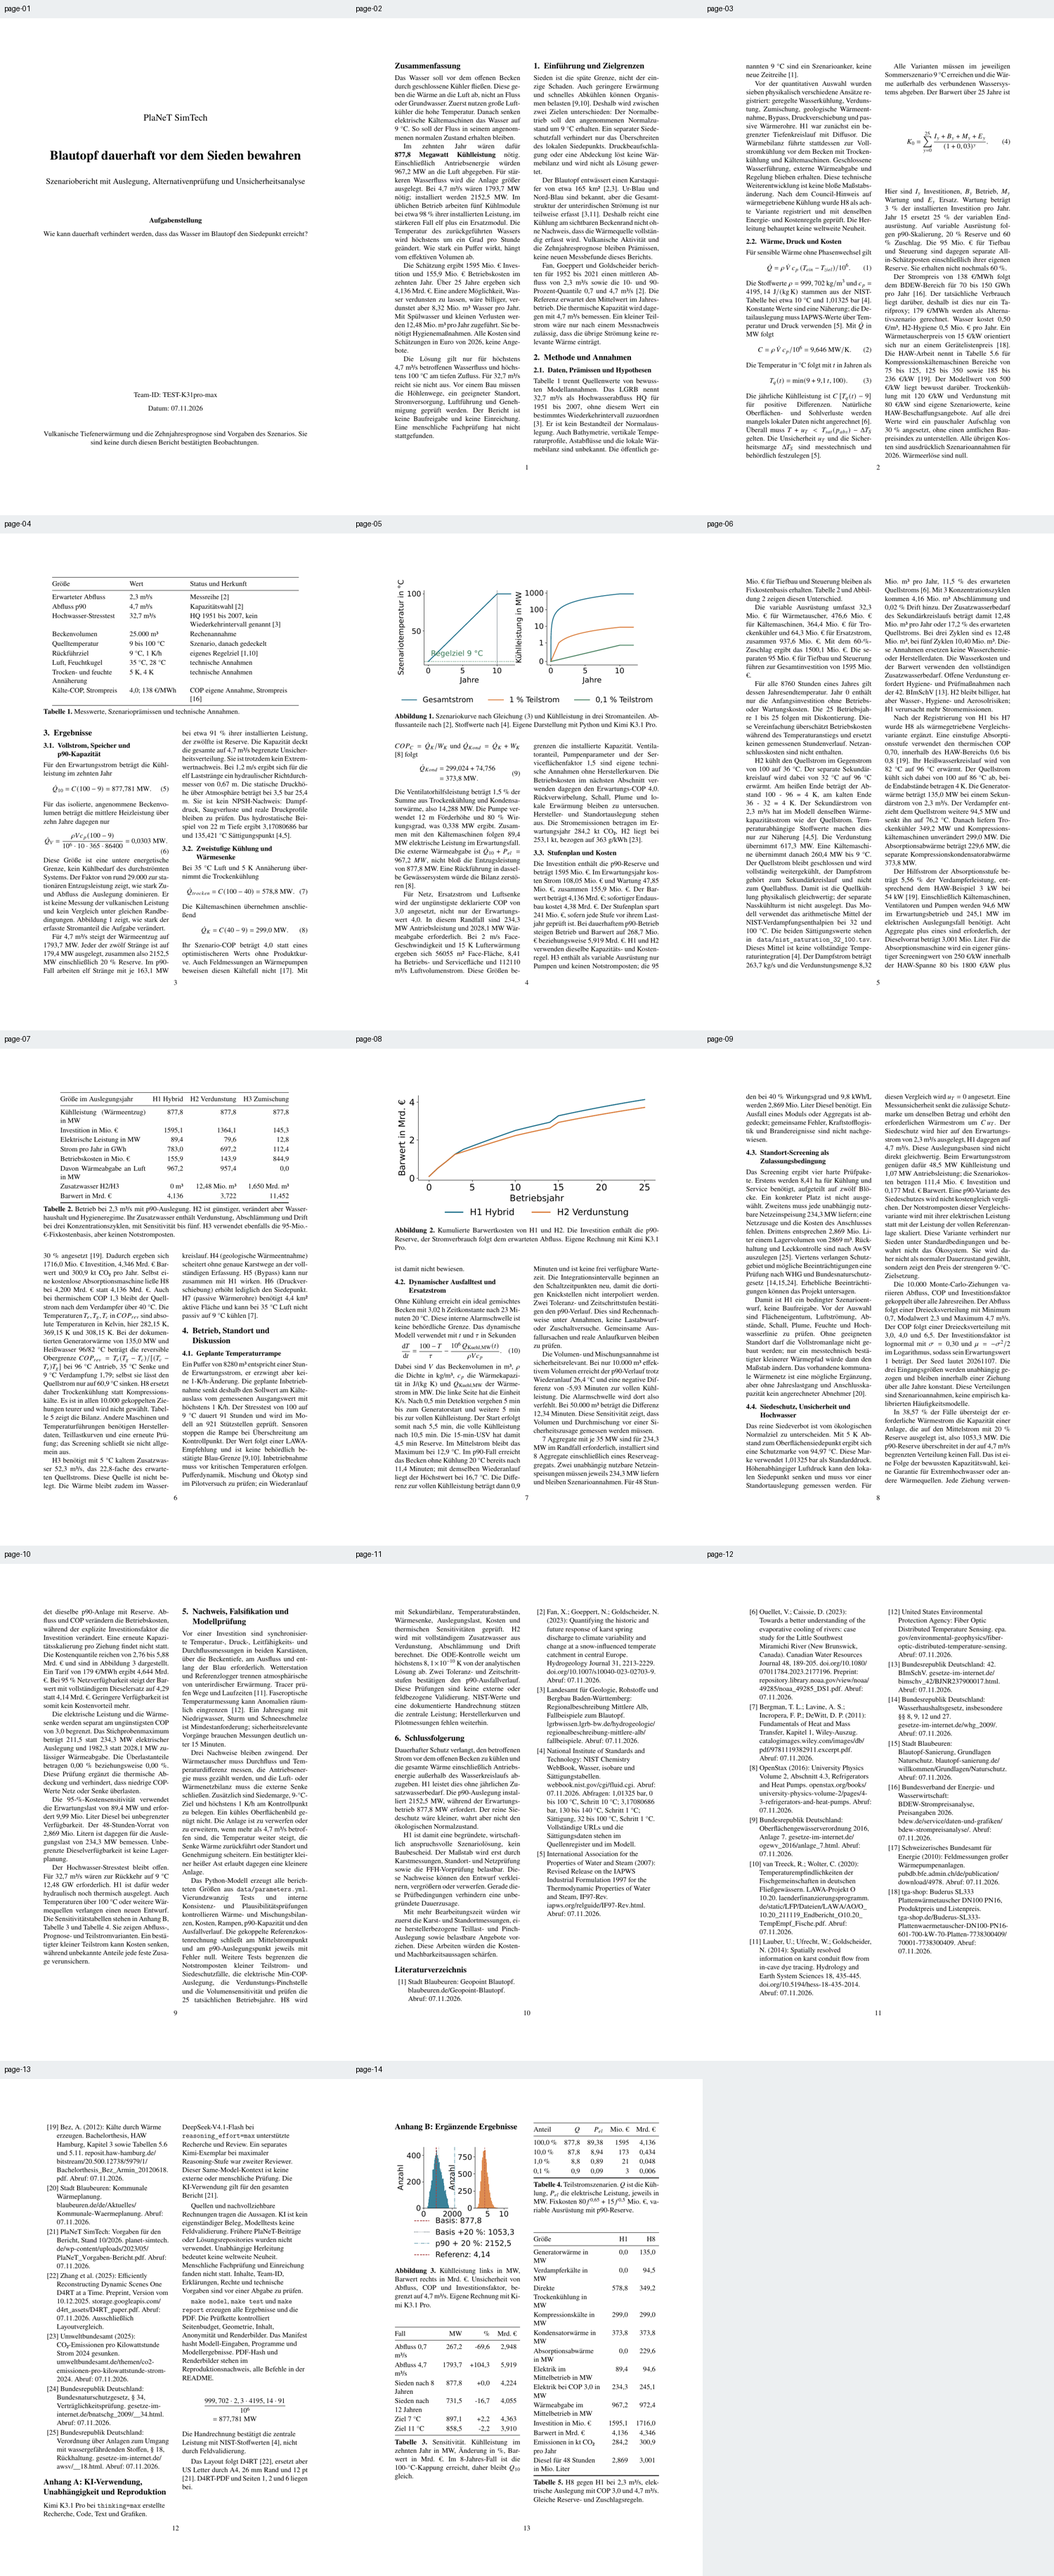
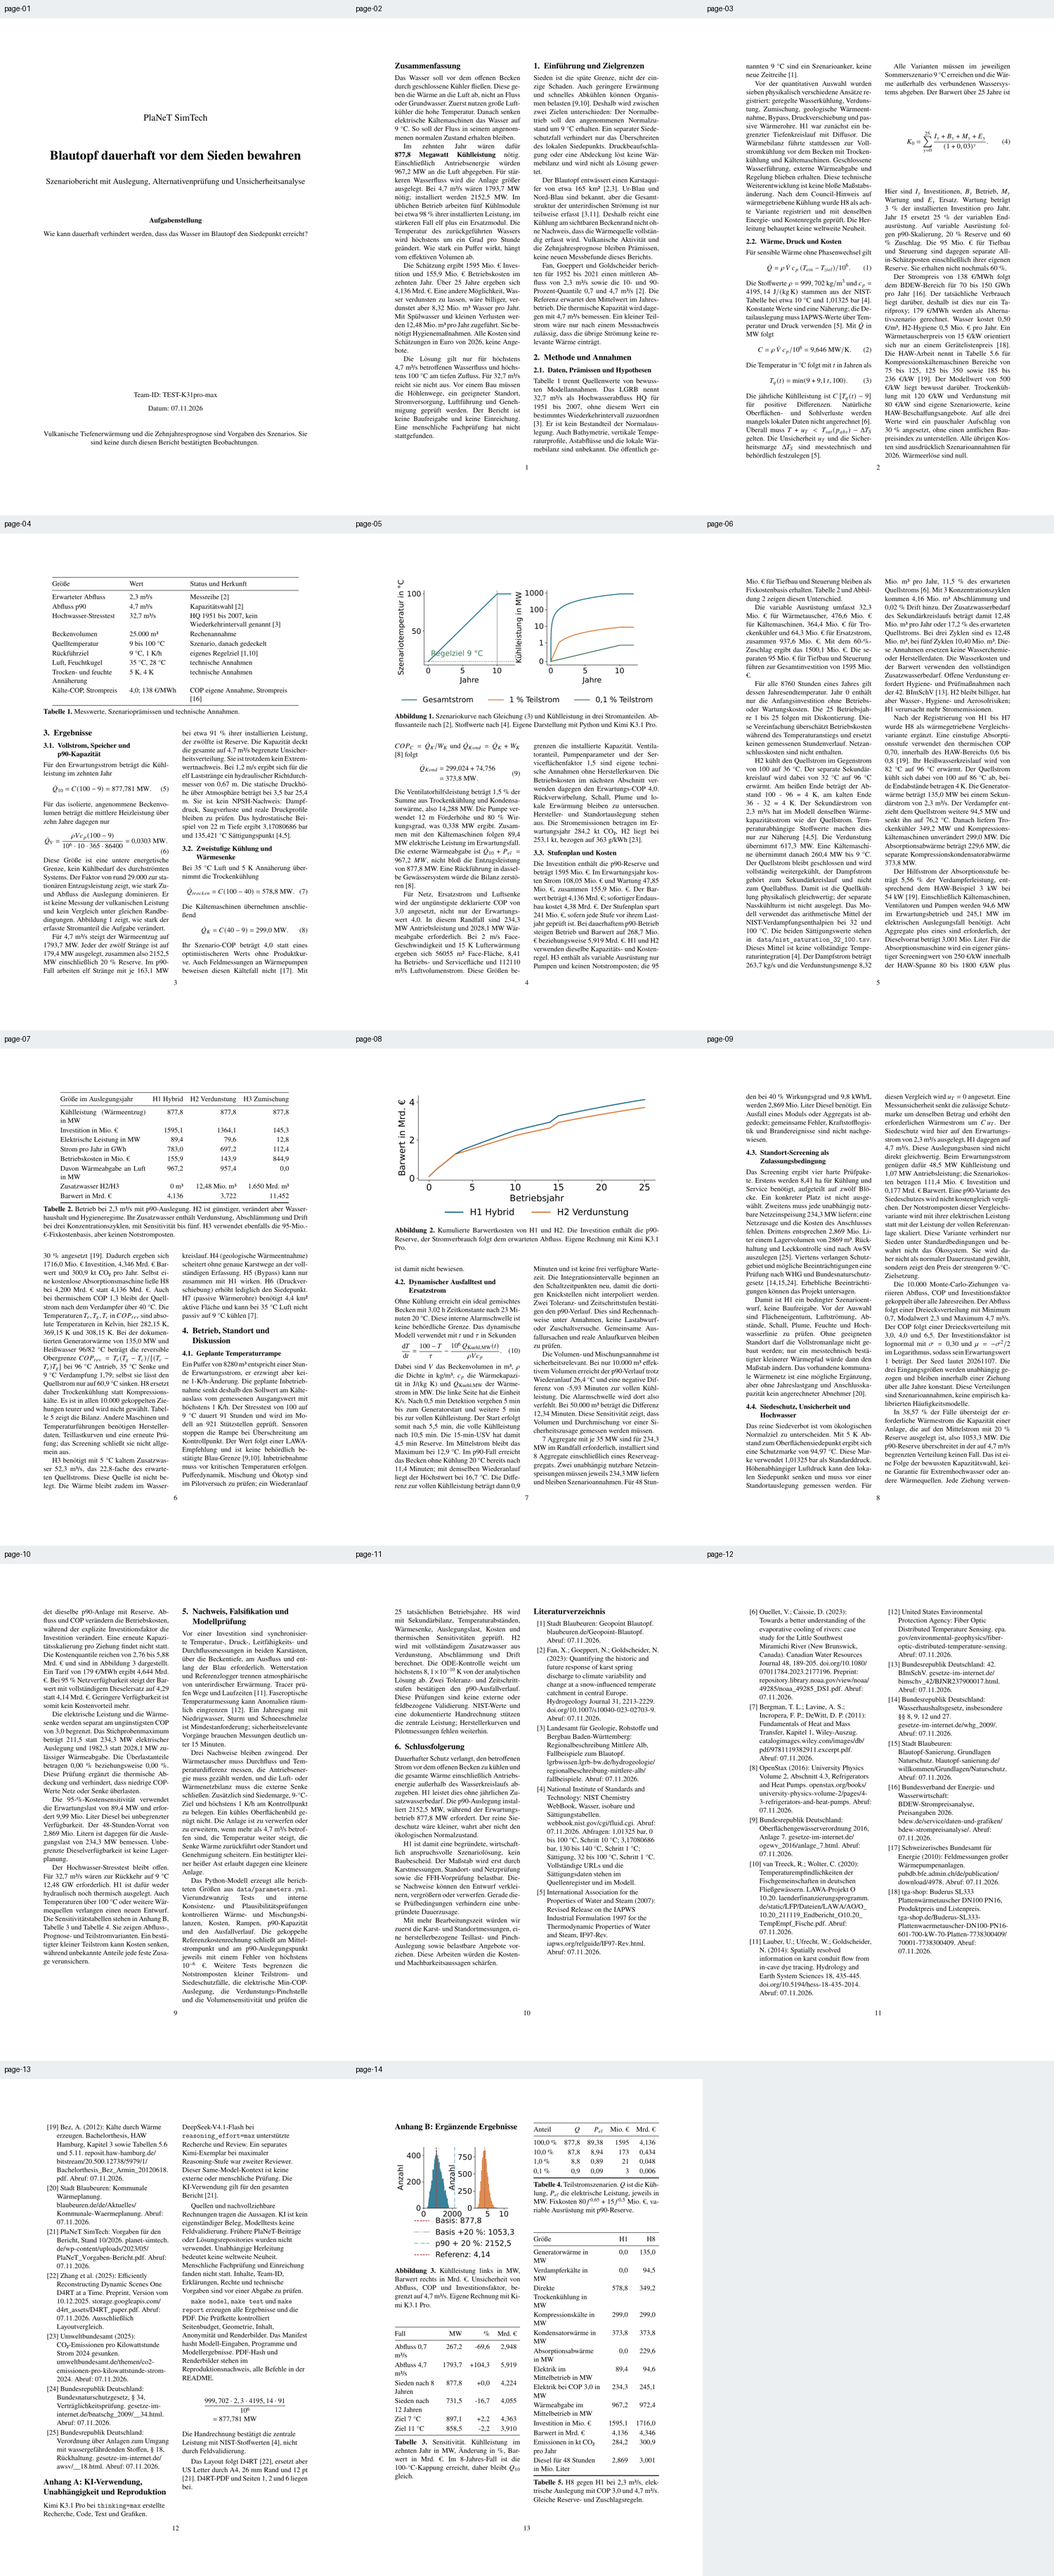
Clarify numerical NPV tolerance

Changed region(s): [[0.368, 0.6221, 0.6133, 0.7776], [0.1533, 0.7465, 0.3067, 0.7776]]

diff --git a/report/main.tex b/report/main.tex
@@ -220,7 +220,7 @@ Vor einer Investition sind synchronisierte Temperatur-, Druck-, Leitfähigkeits-
 
 Drei Nachweise bleiben zwingend. Der Wärmetauscher muss Durchfluss und Temperaturdifferenz messen, die Antriebsenergie muss gezählt werden, und die Luft- oder Wärmenetzbilanz muss die externe Senke schließen. Zusätzlich sind Siedemarge, 9-°C-Ziel und höchstens 1 K/h am Kontrollpunkt zu belegen. Ein kühles Oberflächenbild genügt nicht. Die Anlage ist zu verwerfen oder zu erweitern, wenn mehr als 4,7~m³/s betroffen sind, die Temperatur weiter steigt, die Senke Wärme zurückführt oder Standort und Genehmigung scheitern. Ein bestätigter kleiner heißer Ast erlaubt dagegen eine kleinere Anlage.
 
-Das Python-Modell erzeugt alle berichteten Größen aus \texttt{data/parameters.yml}. Vierundzwanzig Tests und interne Konsistenz- und Plausibilitätsprüfungen kontrollieren Wärme- und Mischungsbilanzen, Kosten, Rampen, p90-Kapazität und den Ausfallverlauf. Die gekoppelte Referenzkostenrechnung schließt am Mittelstrompunkt und am p90-Auslegungspunkt jeweils mit Fehler null. Weitere Tests begrenzen die Notstromposten kleiner Teilstrom- und Siedeschutzfälle, die elektrische Min-COP-Auslegung, die Verdunstungs-Pinchstelle und die Volumensensitivität und prüfen die 25 tatsächlichen Betriebsjahre. H8 wird mit Sekundärbilanz, Temperaturabständen, Wärmesenke, Auslegungslast, Kosten und thermischen Sensitivitäten geprüft. H2 wird mit vollständigem Zusatzwasser aus Verdunstung, Abschlämmung und Drift berechnet. Die ODE-Kontrolle weicht um höchstens \(8,1\times10^{-10}\) K von der analytischen Lösung ab. Zwei Toleranz- und Zeitschrittstufen bestätigen den p90-Ausfallverlauf. Diese Prüfungen sind keine externe oder feldbezogene Validierung. NIST-Werte und eine dokumentierte Handrechnung stützen die zentrale Leistung; Herstellerkurven und Pilotmessungen fehlen weiterhin.
+Das Python-Modell erzeugt alle berichteten Größen aus \texttt{data/parameters.yml}. Vierundzwanzig Tests und interne Konsistenz- und Plausibilitätsprüfungen kontrollieren Wärme- und Mischungsbilanzen, Kosten, Rampen, p90-Kapazität und den Ausfallverlauf. Die gekoppelte Referenzkostenrechnung schließt am Mittelstrompunkt und am p90-Auslegungspunkt jeweils mit einem Fehler von höchstens \(10^{-6}\) €. Weitere Tests begrenzen die Notstromposten kleiner Teilstrom- und Siedeschutzfälle, die elektrische Min-COP-Auslegung, die Verdunstungs-Pinchstelle und die Volumensensitivität und prüfen die 25 tatsächlichen Betriebsjahre. H8 wird mit Sekundärbilanz, Temperaturabständen, Wärmesenke, Auslegungslast, Kosten und thermischen Sensitivitäten geprüft. H2 wird mit vollständigem Zusatzwasser aus Verdunstung, Abschlämmung und Drift berechnet. Die ODE-Kontrolle weicht um höchstens \(8,1\times10^{-10}\) K von der analytischen Lösung ab. Zwei Toleranz- und Zeitschrittstufen bestätigen den p90-Ausfallverlauf. Diese Prüfungen sind keine externe oder feldbezogene Validierung. NIST-Werte und eine dokumentierte Handrechnung stützen die zentrale Leistung; Herstellerkurven und Pilotmessungen fehlen weiterhin.
 
 \section{Schlussfolgerung}
 
